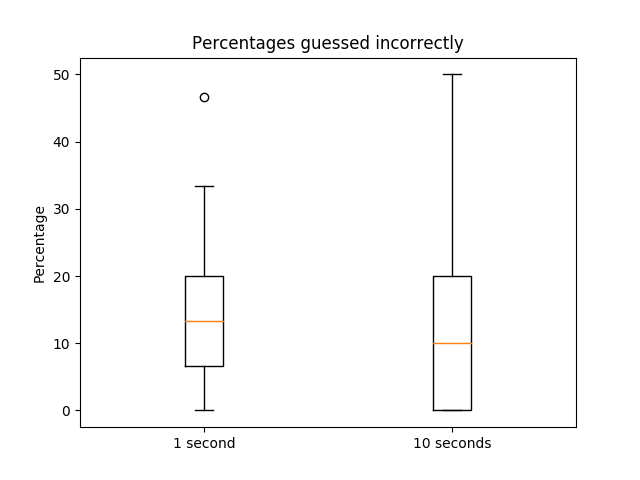
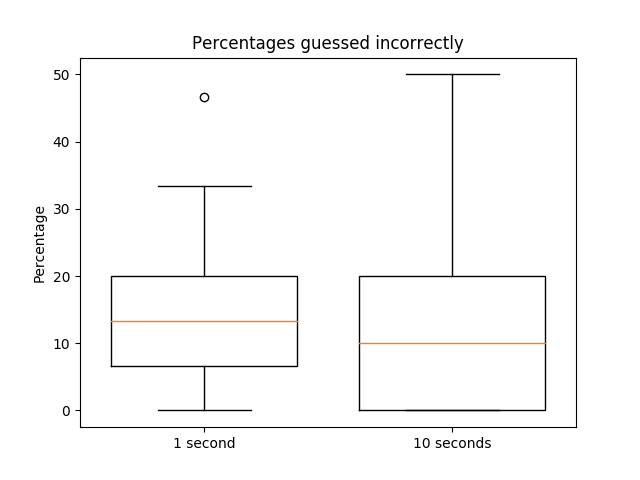
Generate boxplot as tikz image

diff --git a/output/percentage_boxplot.tex b/output/percentage_boxplot.tex
@@ -1,0 +1,92 @@
+% This file was created by matplotlib2tikz v0.7.4.
+\begin{tikzpicture}
+
+\definecolor{color0}{rgb}{1,0.498039215686275,0.0549019607843137}
+
+\begin{axis}[
+tick align=outside,
+tick pos=left,
+title={Percentages guessed incorrectly},
+x grid style={white!69.01960784313725!black},
+xmin=0.5, xmax=2.5,
+xtick style={color=black},
+xtick={1,2},
+xticklabels={1 second,10 seconds},
+y grid style={white!69.01960784313725!black},
+ylabel={Percentage},
+ymin=-2.5, ymax=52.5,
+ytick style={color=black}
+]
+\addplot [black]
+table {%
+0.625 6.67
+1.375 6.67
+1.375 20
+0.625 20
+0.625 6.67
+};
+\addplot [black]
+table {%
+1 6.67
+1 0
+};
+\addplot [black]
+table {%
+1 20
+1 33.33
+};
+\addplot [black]
+table {%
+0.8125 0
+1.1875 0
+};
+\addplot [black]
+table {%
+0.8125 33.33
+1.1875 33.33
+};
+\addplot [black, mark=*, mark size=3, mark options={solid,fill opacity=0}, only marks]
+table {%
+1 46.67
+};
+\addplot [black]
+table {%
+1.625 0
+2.375 0
+2.375 20
+1.625 20
+1.625 0
+};
+\addplot [black]
+table {%
+2 0
+2 0
+};
+\addplot [black]
+table {%
+2 20
+2 50
+};
+\addplot [black]
+table {%
+1.8125 0
+2.1875 0
+};
+\addplot [black]
+table {%
+1.8125 50
+2.1875 50
+};
+\addplot [color0]
+table {%
+0.625 13.33
+1.375 13.33
+};
+\addplot [color0]
+table {%
+1.625 10
+2.375 10
+};
+\end{axis}
+
+\end{tikzpicture}

diff --git a/src/processor.py b/src/processor.py
@@ -1,6 +1,8 @@
 import csv
 import numpy as np
+import warnings
 import matplotlib.pyplot as plt
+from matplotlib2tikz import save as tikz_save
 
 
 def process_csv(csv_path, image='image_id_', stage='image_stage_', fake='image_fake_', answer='image_answer_'):
@@ -163,8 +165,17 @@ def boxplot(data_dict, metric, header, filename):
         data.append([guess_data[metric] for guess_data in data_point])
 
     fig, ax = plt.subplots()
-    ax.boxplot(data)
+    ax.boxplot(data, widths=0.75)
     ax.set_title(header)
     ax.set_ylabel(metric.capitalize())
     ax.set_xticklabels([data_points['label'] for data_points in data_dict])
-    plt.savefig('../output/{}'.format(filename))
+
+    if filename.endswith('.tex'):
+        with warnings.catch_warnings():
+            warnings.simplefilter("ignore")
+            tikz_save('../output/{}'.format(filename))
+    else:
+        plt.savefig('../output/{}'.format(filename))
+
+
+

diff --git a/src/main.py b/src/main.py
@@ -2,6 +2,7 @@ import argparse
 from processor import process_csv, calculate_percentages, calculate_percentages_user, boxplot
 
 
+
 def get_arguments():
     parser = argparse.ArgumentParser()
 
@@ -32,5 +33,5 @@ if __name__ == "__main__":
         ],
         'percentage',
         'Percentages guessed incorrectly',
-        'percentage_boxplot.png'
+        'percentage_boxplot.tex'
     )
